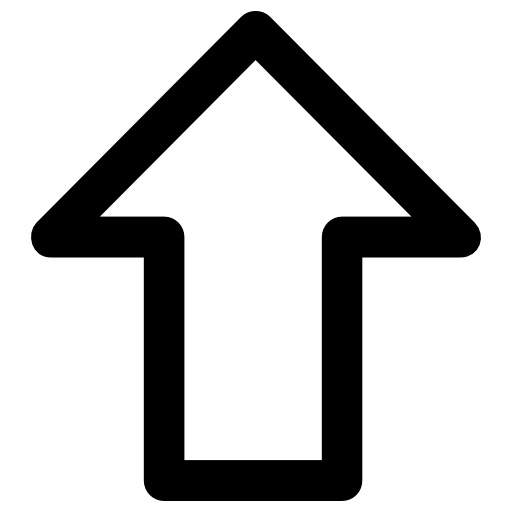
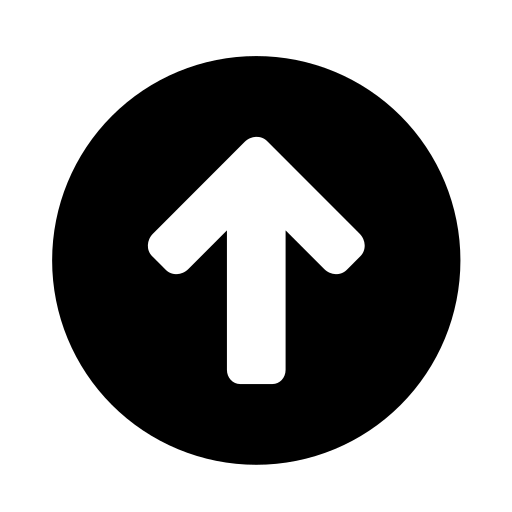
finalizando o botão de voltar ao topo

diff --git a/public/css/style.css b/public/css/style.css
@@ -597,27 +597,30 @@ a {
   align-self: flex-end;
   position: fixed;
   justify-self: flex-end;
-  height: 100rem;
+  height: 120rem;
 
 }
 
 .voltarTopo{
 
-  display: none;
+  opacity: 0;
+  display: flex;
   align-self: center;
   justify-content: center;
   background-color: #f66b0e;
   box-shadow: 0 4px 0 #a54809;
   border: none;
   margin-right: 3rem;
-  padding: 0.8rem 0;
   font-size: x-large;
-  border-radius: 100rem;
   cursor: pointer;
-  width: 80px;
+  border: none;
+  width: 80px;      
   height: 80px;
+  border-radius: 50%;
   transition: 0.3s;
+  transition: opacity 0.2s, visibility 0.1s;
   z-index: 99;  
+  padding: 0; 
 
 }
 
@@ -630,8 +633,7 @@ a {
 
 .imagem{
 
-  height: 50px;
-  color: #ffffff;
+  height: 80px;
 
 }
 

diff --git a/public/index.html b/public/index.html
@@ -215,10 +215,12 @@
   window.onscroll = function() {
      var botao = document.querySelector('.voltarTopo');
  
-     if(window.scrollY >= 300){
-       botao.style.display = 'block'
+     if (window.scrollY > 310) {
+        botao.style.opacity = '1';
+        botao.style.visibility = 'visible';
     } else {
-        botao.style.display = 'none'
+        botao.style.opacity = '0';
+        botao.style.visibility = 'hidden';
     }
- };
+};
  </script>
